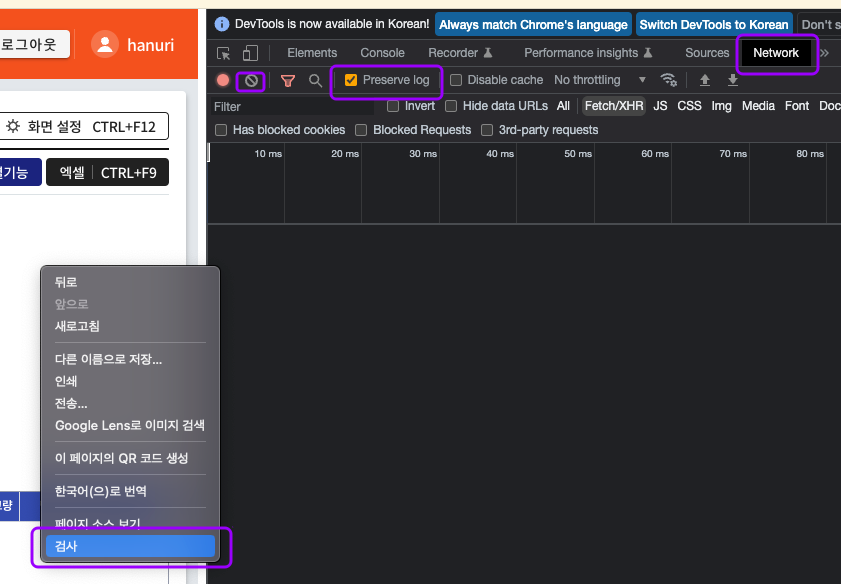
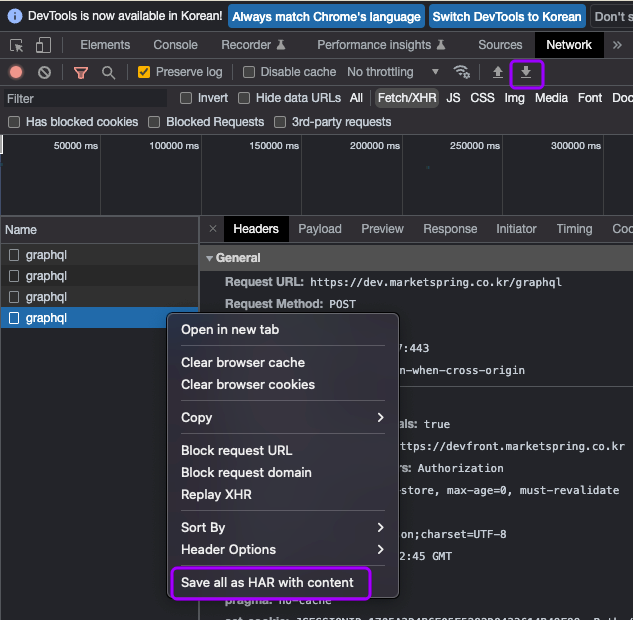
GitBook: [#149] No subject

diff --git a/computer-science/web/rest-api/api.md b/computer-science/web/rest-api/api.md
@@ -52,7 +52,7 @@
 >
 > 하지만 이런 위임은 프론트엔드에 로직이 존재하게 하고, 높은 자유도는 로직의 파편화를 초래합니다.
 
-![https://www.kennethlange.com/backends-for-frontends-pattern/](<../../../.gitbook/assets/image (16) (1).png>)
+![https://www.kennethlange.com/backends-for-frontends-pattern/](<../../../.gitbook/assets/image (16) (1) (1).png>)
 
 * 가장 잘 알려진 방법은 BFF(Backend for Frontend) 입니다.
 * BFF는 각 마이크로 서비스에서 리소스를 가져온 후 니즈에 맞게 가공하는, 매핑 역할을 합니다.

diff --git a/and/http-request-with-har-file.md b/and/http-request-with-har-file.md
@@ -27,13 +27,15 @@ HAR File, HTTP Archive File
 * **Preserve log** 체크
 * 기존 기록이 있는 경우 **모든 기록 Clear**
 
-![](<../.gitbook/assets/image (16).png>)
+![](<../.gitbook/assets/image (16) (1).png>)
 
 #### 2. 작동 후 HAR file 생성
 
-![](<../.gitbook/assets/image (11).png>)
+* **Save All As HAR with Content** 또는 **Export HAR...** 선택
 
-#### 3. 생성된 HAR 파일을 본사로 전달
+![](<../.gitbook/assets/image (16).png>)
+
+#### 3. 생성된 HAR 파일을 전달
 
 ## HAR 파일 분석하기 by 개발자
 
